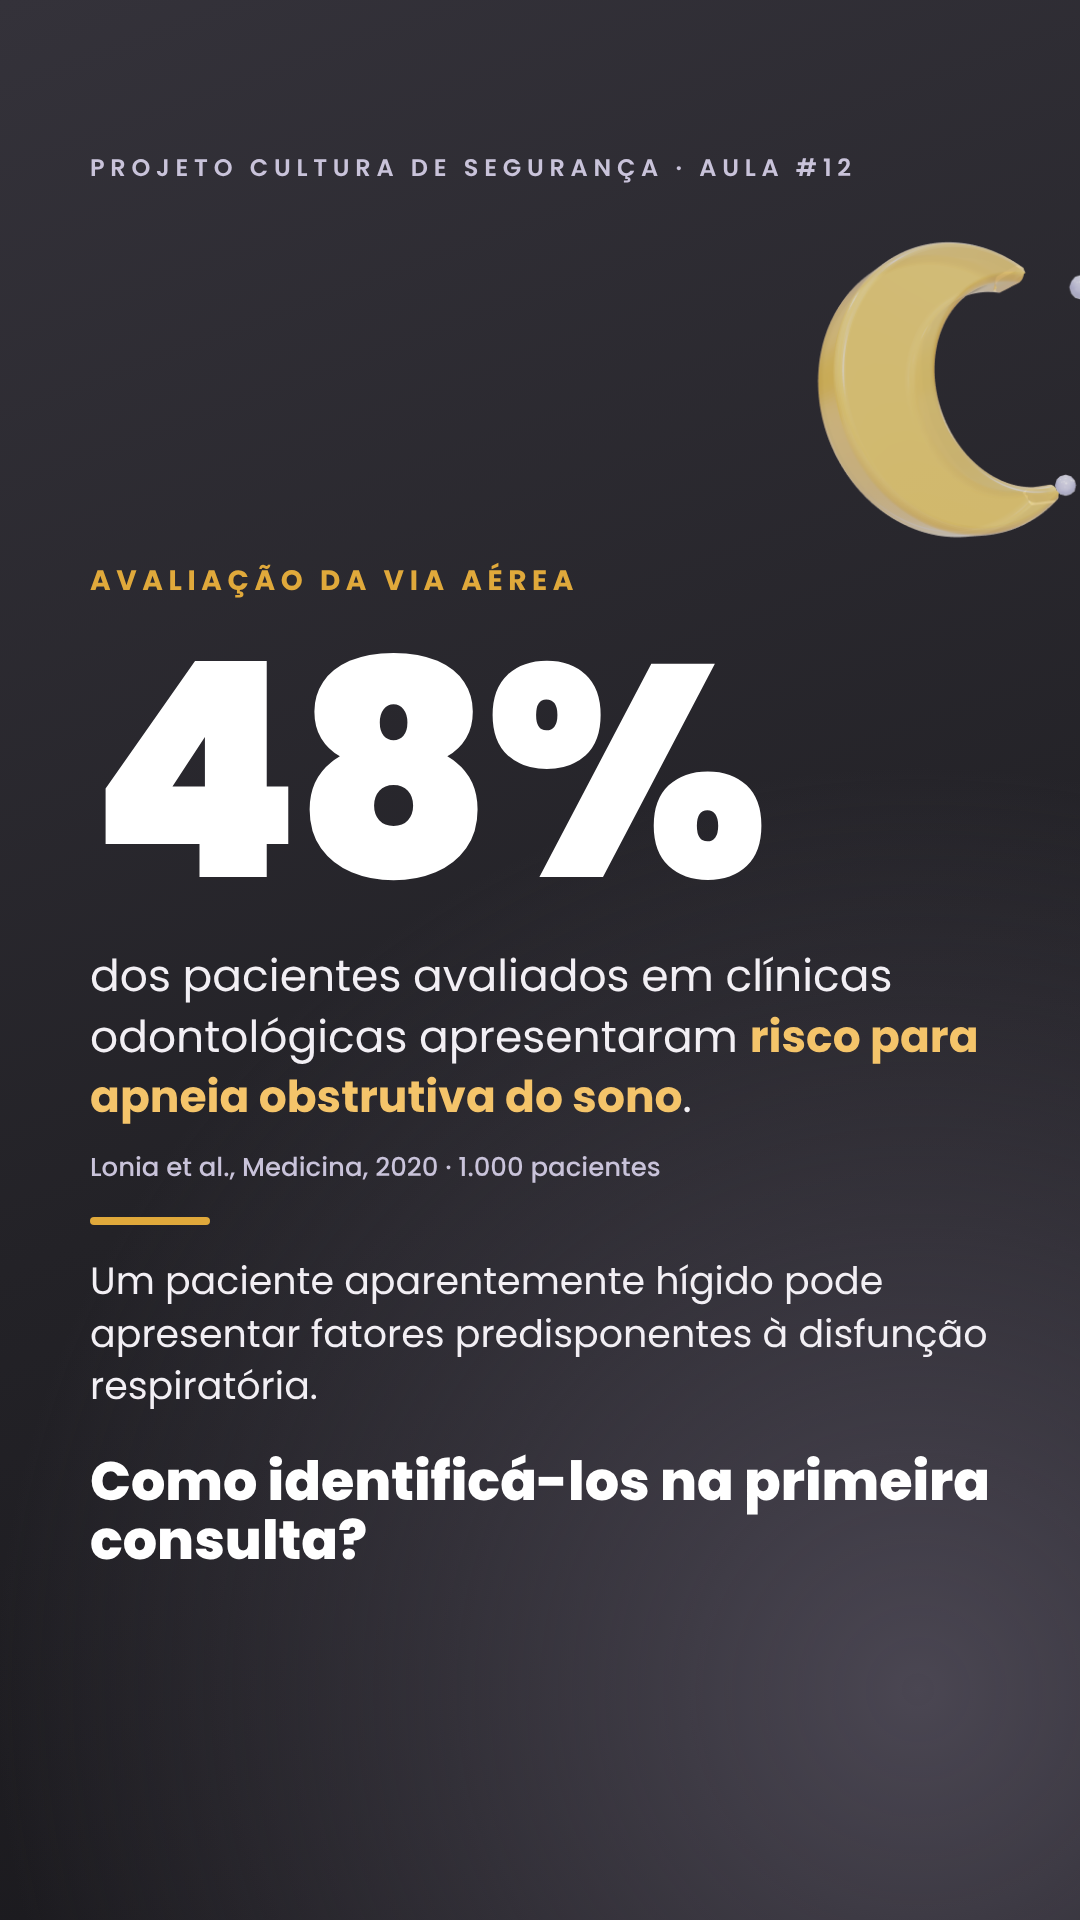
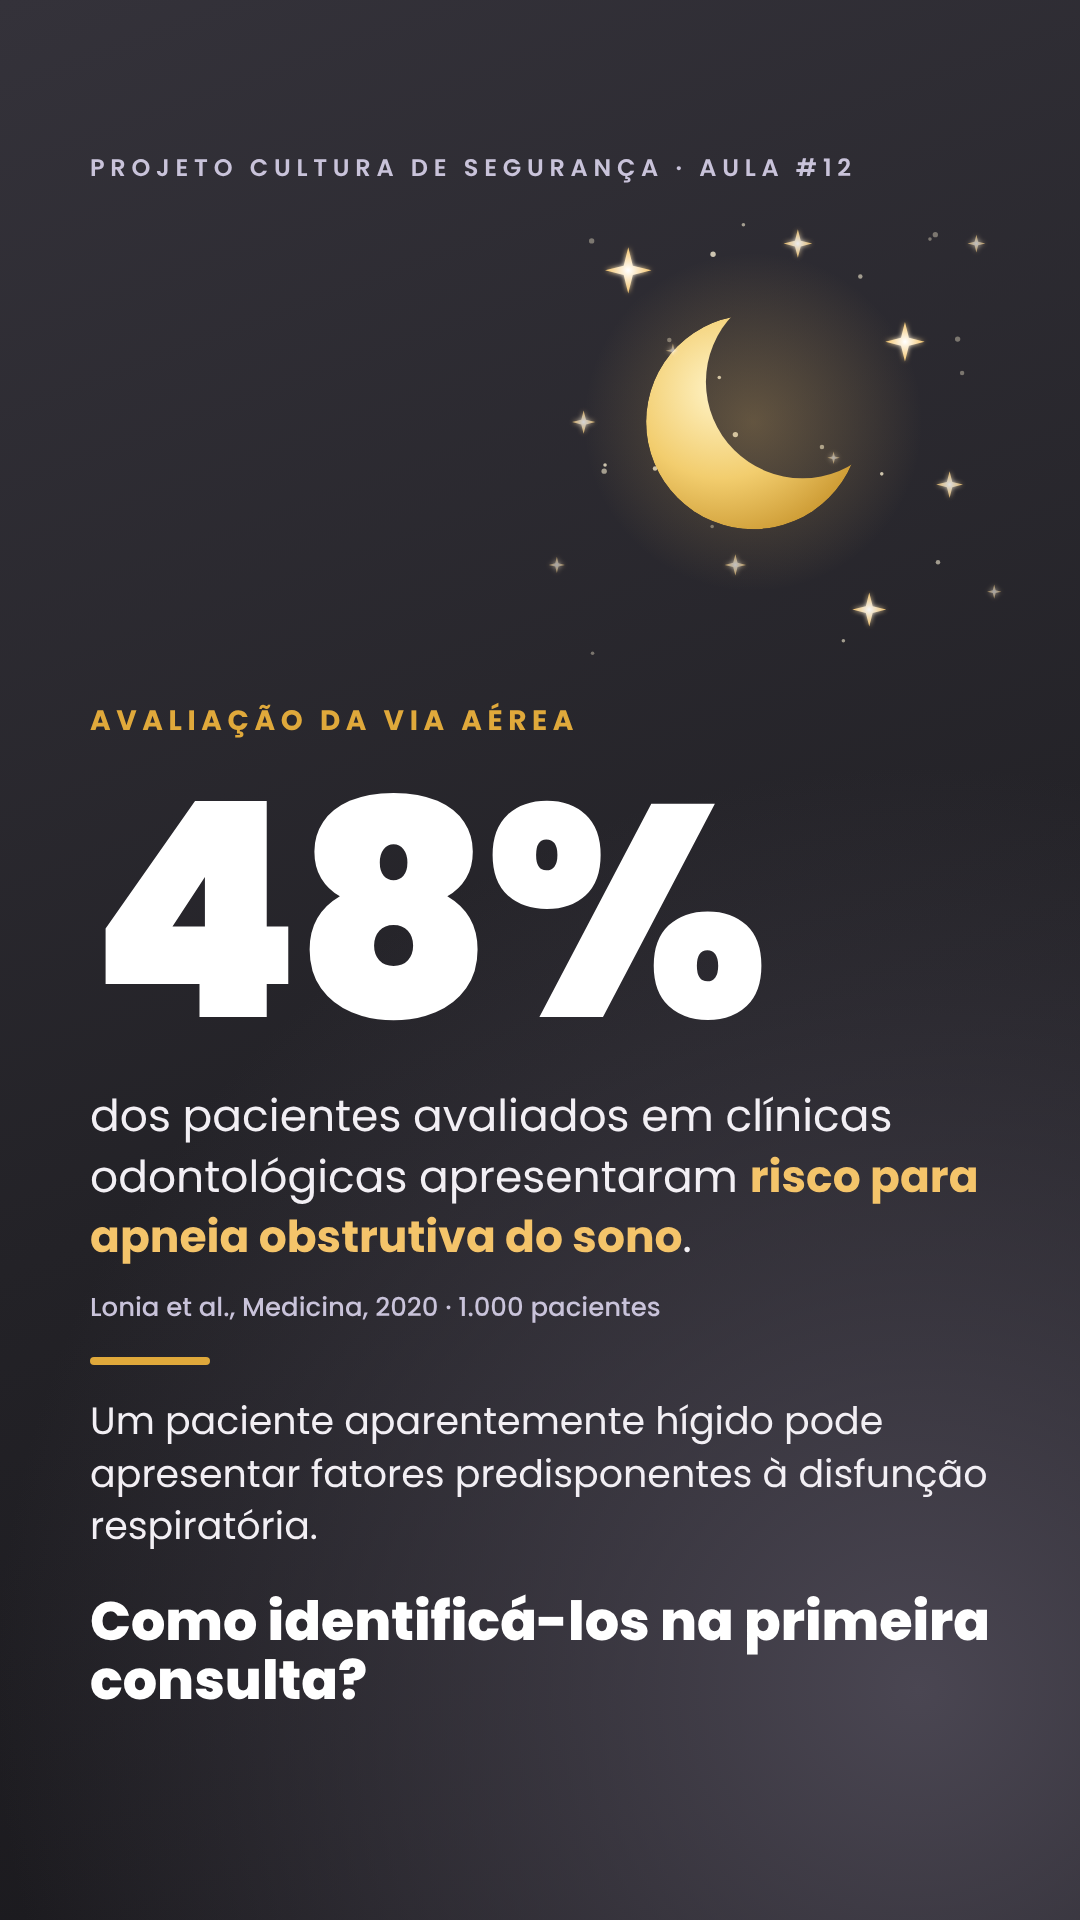
Story 2 da Aula #12: céu noturno (lua crescente com estrelas)
Claude-Session: https://claude.ai/code/session_01MYEGXM9LVv4Rd1VsREZmpT

diff --git a/aulas-vias-aereas/stories-aula12/gerar-stories.py b/aulas-vias-aereas/stories-aula12/gerar-stories.py
@@ -73,8 +73,20 @@ S['Story 1 - tela 2 - resposta'] = page('wine', BR + f"""
 </div>
 """)
 S['Story 2 - apneia 48 por cento'] = page('gray', BR + f"""
-<img src='file://{IMG}/lua.png' style='position:absolute;right:-110px;top:170px;width:440px;opacity:.95'>
-<div class='box' style='top:560px'>
+<svg width='500' height='482' viewBox='0 0 560 540' style='position:absolute;right:50px;top:190px'>
+<defs>
+<radialGradient id='mg' cx='35%' cy='35%' r='75%'><stop offset='0' stop-color='#FFF4C8'/><stop offset='.55' stop-color='#F2CD6E'/><stop offset='1' stop-color='#C9962E'/></radialGradient>
+<radialGradient id='st' cx='50%' cy='50%' r='50%'><stop offset='0' stop-color='#FFFFFF'/><stop offset='1' stop-color='#F4C46A'/></radialGradient>
+<radialGradient id='halo' cx='50%' cy='50%' r='50%'><stop offset='0' stop-color='#F4C46A' stop-opacity='.28'/><stop offset='1' stop-color='#F4C46A' stop-opacity='0'/></radialGradient>
+<filter id='glow' x='-80%' y='-80%' width='260%' height='260%'><feGaussianBlur stdDeviation='3' result='b'/><feMerge><feMergeNode in='b'/><feMergeNode in='SourceGraphic'/></feMerge></filter>
+<mask id='cres'><rect width='560' height='540' fill='black'/><circle cx='250' cy='260' r='120' fill='white'/><circle cx='305' cy='215' r='108' fill='black'/></mask>
+</defs>
+<circle cx='351' cy='505' r='2' fill='#F4EBD0' opacity='0.6'/><circle cx='69' cy='57' r='3' fill='#F4EBD0' opacity='0.4'/><circle cx='394' cy='318' r='2' fill='#F4EBD0' opacity='0.8'/><circle cx='239' cy='39' r='2' fill='#F4EBD0' opacity='0.6'/><circle cx='448' cy='55' r='2' fill='#F4EBD0' opacity='0.4'/><circle cx='454' cy='50' r='3' fill='#F4EBD0' opacity='0.4'/><circle cx='248' cy='342' r='3' fill='#F4EBD0' opacity='0.8'/><circle cx='83' cy='315' r='3' fill='#F4EBD0' opacity='0.6'/><circle cx='70' cy='519' r='2' fill='#F4EBD0' opacity='0.4'/><circle cx='156' cy='168' r='2.5' fill='#F4EBD0' opacity='0.4'/><circle cx='140' cy='312' r='2.5' fill='#F4EBD0' opacity='0.8'/><circle cx='205' cy='72' r='3' fill='#F4EBD0' opacity='0.8'/><circle cx='212' cy='210' r='2' fill='#F4EBD0' opacity='0.8'/><circle cx='84' cy='308' r='2' fill='#F4EBD0' opacity='0.8'/><circle cx='230' cy='274' r='3' fill='#F4EBD0' opacity='0.8'/><circle cx='457' cy='417' r='2.5' fill='#F4EBD0' opacity='0.6'/><circle cx='484' cy='205' r='2.5' fill='#F4EBD0' opacity='0.4'/><circle cx='204' cy='377' r='2' fill='#F4EBD0' opacity='0.4'/><circle cx='327' cy='288' r='2.5' fill='#F4EBD0' opacity='0.6'/><circle cx='479' cy='167' r='3' fill='#F4EBD0' opacity='0.4'/><circle cx='140' cy='282' r='2.5' fill='#F4EBD0' opacity='0.4'/><circle cx='370' cy='97' r='2.5' fill='#F4EBD0' opacity='0.6'/>
+<circle cx='250' cy='260' r='190' fill='url(#halo)'/>
+<g mask='url(#cres)'><circle cx='250' cy='260' r='120' fill='url(#mg)'/></g>
+<polygon points='110.0,64.0 115.1,84.9 136.0,90.0 115.1,95.1 110.0,116.0 104.9,95.1 84.0,90.0 104.9,84.9' fill='url(#st)' opacity='1' filter='url(#glow)'/><polygon points='300.0,44.0 303.2,56.8 316.0,60.0 303.2,63.2 300.0,76.0 296.8,63.2 284.0,60.0 296.8,56.8' fill='url(#st)' opacity='0.9' filter='url(#glow)'/><polygon points='420.0,148.0 424.4,165.6 442.0,170.0 424.4,174.4 420.0,192.0 415.6,174.4 398.0,170.0 415.6,165.6' fill='url(#st)' opacity='1' filter='url(#glow)'/><polygon points='60.0,247.0 62.6,257.4 73.0,260.0 62.6,262.6 60.0,273.0 57.4,262.6 47.0,260.0 57.4,257.4' fill='url(#st)' opacity='0.8' filter='url(#glow)'/><polygon points='470.0,315.0 473.0,327.0 485.0,330.0 473.0,333.0 470.0,345.0 467.0,333.0 455.0,330.0 467.0,327.0' fill='url(#st)' opacity='0.85' filter='url(#glow)'/><polygon points='230.0,408.0 232.4,417.6 242.0,420.0 232.4,422.4 230.0,432.0 227.6,422.4 218.0,420.0 227.6,417.6' fill='url(#st)' opacity='0.7' filter='url(#glow)'/><polygon points='380.0,451.0 383.8,466.2 399.0,470.0 383.8,473.8 380.0,489.0 376.2,473.8 361.0,470.0 376.2,466.2' fill='url(#st)' opacity='0.95' filter='url(#glow)'/><polygon points='30.0,411.0 31.8,418.2 39.0,420.0 31.8,421.8 30.0,429.0 28.2,421.8 21.0,420.0 28.2,418.2' fill='url(#st)' opacity='0.6' filter='url(#glow)'/><polygon points='500.0,50.0 502.0,58.0 510.0,60.0 502.0,62.0 500.0,70.0 498.0,62.0 490.0,60.0 498.0,58.0' fill='url(#st)' opacity='0.7' filter='url(#glow)'/><polygon points='160.0,172.0 161.6,178.4 168.0,180.0 161.6,181.6 160.0,188.0 158.4,181.6 152.0,180.0 158.4,178.4' fill='url(#st)' opacity='0.6' filter='url(#glow)'/><polygon points='340.0,293.0 341.4,298.6 347.0,300.0 341.4,301.4 340.0,307.0 338.6,301.4 333.0,300.0 338.6,298.6' fill='url(#st)' opacity='0.6' filter='url(#glow)'/><polygon points='520.0,442.0 521.6,448.4 528.0,450.0 521.6,451.6 520.0,458.0 518.4,451.6 512.0,450.0 518.4,448.4' fill='url(#st)' opacity='0.6' filter='url(#glow)'/>
+</svg>
+<div class='box' style='top:700px'>
   <div class='kick'>Avaliação da via aérea</div>
   <div style='font-size:300px;font-weight:900;color:#fff;line-height:1;margin-top:20px;letter-spacing:-.02em'>48%</div>
   <p style='font-size:44px;margin-top:24px'>dos pacientes avaliados em clínicas odontológicas apresentaram <b style='color:var(--acc)'>risco para apneia obstrutiva do sono</b>.</p>
